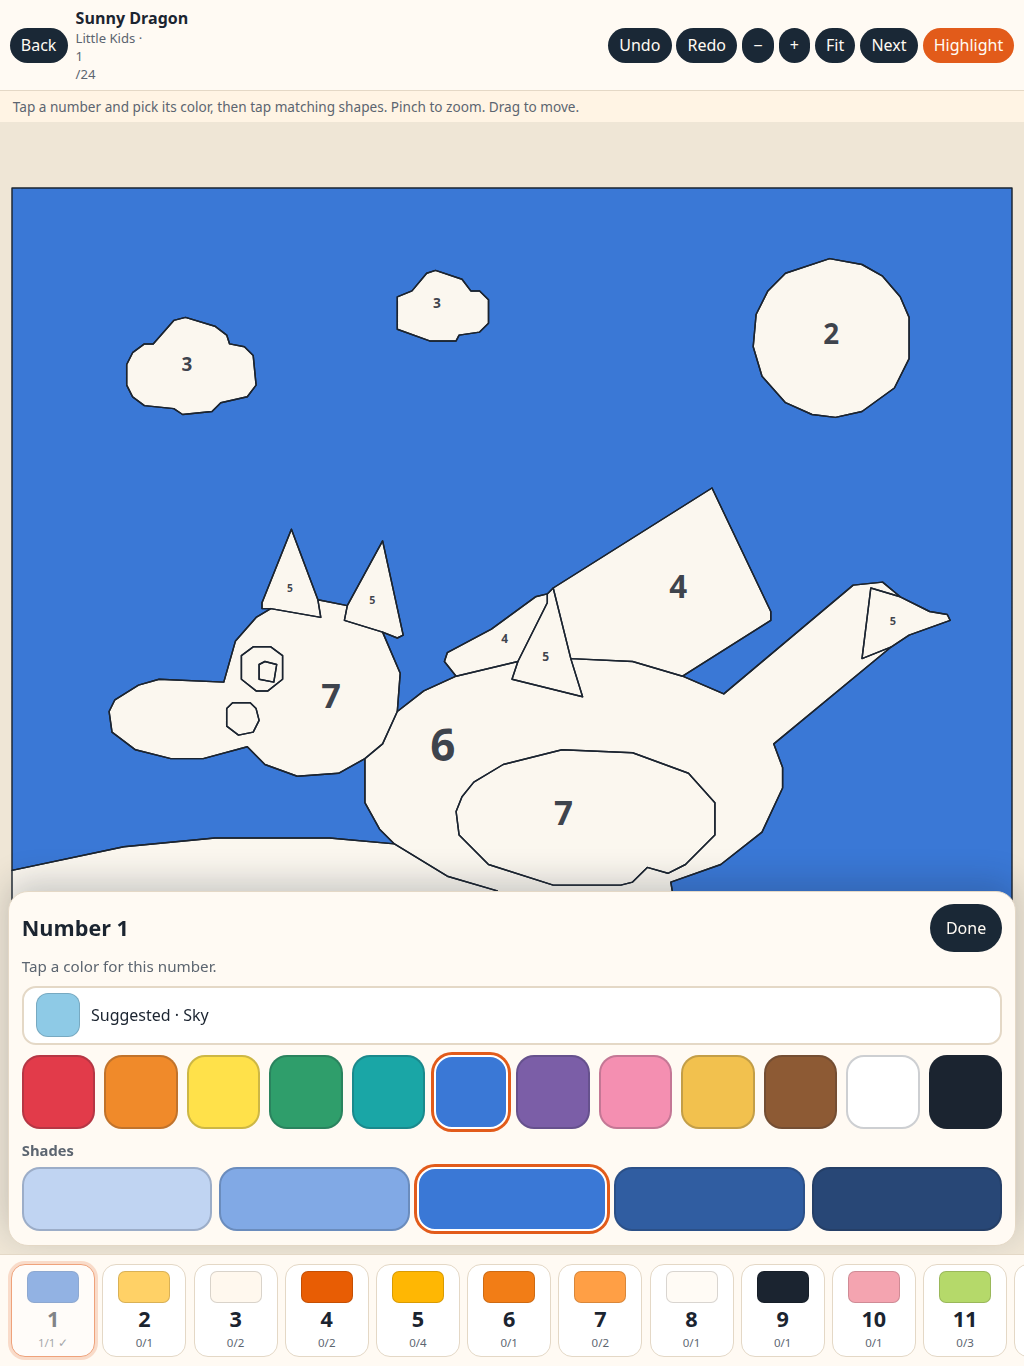
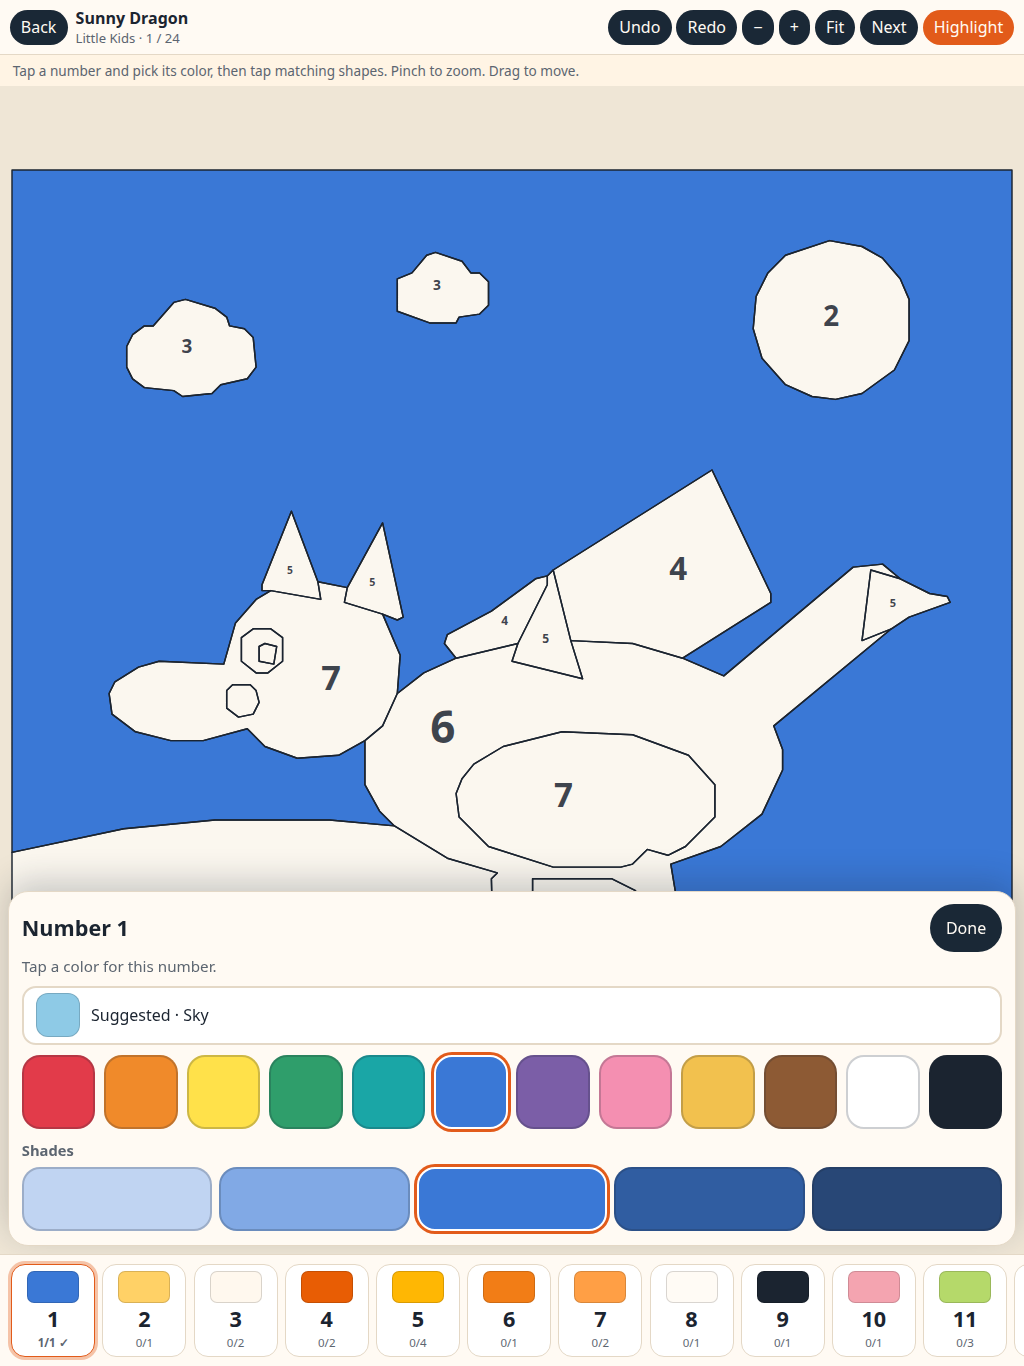
Keep number swatches exact and the progress line on one row.
A finished number no longer fades its color chip, so the slot matches the shade that was painted. The line under the title stays one line, such as Adults · 0 / 1244.

diff --git a/tests/colors.spec.js b/tests/colors.spec.js
@@ -1,6 +1,7 @@
 import { test, expect } from "@playwright/test";
 import fs from "node:fs";
 import path from "node:path";
+import { PNG } from "pngjs";
 import {
   littlePalette,
   luminance,
@@ -128,6 +129,22 @@ function expectRgb(sampleResult, hex) {
   sampleResult.rgb.forEach((channel, i) => expect(Math.abs(channel - want[i])).toBeLessThanOrEqual(2));
 }
 
+async function centerRgb(locator) {
+  const png = PNG.sync.read(await locator.screenshot());
+  const x = Math.min(png.width - 1, Math.max(0, Math.round(png.width / 2)));
+  const y = Math.min(png.height - 1, Math.max(0, Math.round(png.height / 2)));
+  const i = (y * png.width + x) * 4;
+  return [png.data[i], png.data[i + 1], png.data[i + 2]];
+}
+
+async function expectStatusLine(page, label) {
+  const status = page.locator(".play-title > span");
+  const text = (await status.innerText()).replace(/\s+/g, " ").trim();
+  expect(text).toMatch(new RegExp(`^${label} · \\d+ / \\d+$`));
+  const box = await status.boundingBox();
+  expect(box.height).toBeLessThan(24);
+}
+
 async function shot(page, name) {
   fs.mkdirSync(artDir, { recursive: true });
   fs.mkdirSync(shotDir, { recursive: true });
@@ -203,6 +220,14 @@ test("each number keeps a chosen color, including after a reload", async ({ page
     board.gesturing = false;
     board.draw();
   });
+  const slot = page.locator('.swatch[data-color="0"]');
+  await expect(slot).toHaveClass(/done/);
+  expect(await slot.evaluate((el) => getComputedStyle(el).opacity)).toBe("1");
+  const slotRgb = await centerRgb(slot.locator(".chip"));
+  const shadeRgb = await centerRgb(sheet.locator(".shade.on"));
+  slotRgb.forEach((channel, i) => expect(Math.abs(channel - shadeRgb[i])).toBeLessThanOrEqual(2));
+  rgbOf("#3A78D6").forEach((channel, i) => expect(Math.abs(slotRgb[i] - channel)).toBeLessThanOrEqual(2));
+  await expectStatusLine(page, "Little Kids");
   await shot(page, "ipad-little-kids.png");
   await page.evaluate((index) => {
     const board = window.__WCCA.board;
@@ -265,6 +290,7 @@ test("each number keeps a chosen color, including after a reload", async ({ page
   await expect(sheet.getByText("On this page")).toBeVisible();
   const adultPick = await sheet.locator(".pick").first().boundingBox();
   expect(Math.min(adultPick.width, adultPick.height)).toBeGreaterThanOrEqual(44);
+  await expectStatusLine(page, "Adults");
   await shot(page, "ipad-palette-open.png");
   await sheet.locator("#mix-color").scrollIntoViewIfNeeded();
   await expect(sheet.locator("#mix-color")).toBeVisible();
@@ -337,6 +363,7 @@ test("each number keeps a chosen color, including after a reload", async ({ page
   expect(colored.filled).toBeGreaterThan(20);
   expect(colored.filled).toBeLessThan(colored.total);
   expect(colored.custom).toBeGreaterThan(3);
+  await expectStatusLine(page, "Adults");
   await shot(page, "ipad-adult-custom-colors.png");
 
   await page.getByRole("button", { name: "Highlight" }).click();

diff --git a/css/app.css b/css/app.css
@@ -246,8 +246,8 @@ body.playing #screen { height: 100dvh; max-height: 100dvh; overflow: hidden; }
   border-bottom: 1px solid var(--line);
 }
 .play-title { min-width: 0; }
-.play-title strong, .play-title span { display: block; }
-.play-title span { color: var(--muted); font-size: 0.82rem; }
+.play-title > strong, .play-title > span { display: block; }
+.play-title > span { color: var(--muted); font-size: 0.82rem; white-space: nowrap; }
 .play-tools { margin-left: auto; display: flex; flex-wrap: wrap; gap: 0.3rem; justify-content: flex-end; }
 .play-tools button, .playbar > button { padding: 0.4rem 0.7rem; }
 .play-tools button[aria-pressed="true"] { background: var(--orange); color: #fffaf3; }
@@ -302,7 +302,7 @@ body.playing #screen { height: 100dvh; max-height: 100dvh; overflow: hidden; }
   box-shadow: 0 10px 24px rgba(27, 36, 48, 0.28);
 }
 .swatch.selected { border-color: var(--orange); box-shadow: 0 0 0 3px rgba(226, 91, 26, 0.35); }
-.swatch.done { opacity: 0.55; }
+.swatch.done .swatch-meta { font-weight: 700; }
 .swatch.flash { animation: pop 0.45s ease; }
 .play[data-tier="little"] .swatch { min-width: 84px; min-height: 78px; }
 .play[data-tier="little"] .swatch .num { font-size: 1.35rem; }

diff --git a/js/play.js b/js/play.js
@@ -62,7 +62,7 @@ export async function openPlay(root, picture, meta) {
         <button type="button" data-act="back" aria-label="Back">Back</button>
         <div class="play-title">
           <strong>${escapeHtml(picture.title)}</strong>
-          <span>${TIER_LABEL[picture.tier] || ""} · <span id="play-count">0</span>/${picture.regions.length}</span>
+          <span>${TIER_LABEL[picture.tier] || ""} · <span id="play-count">0</span> / ${picture.regions.length}</span>
         </div>
         <div class="play-tools">
           <button type="button" data-act="undo" aria-label="Undo">Undo</button>
